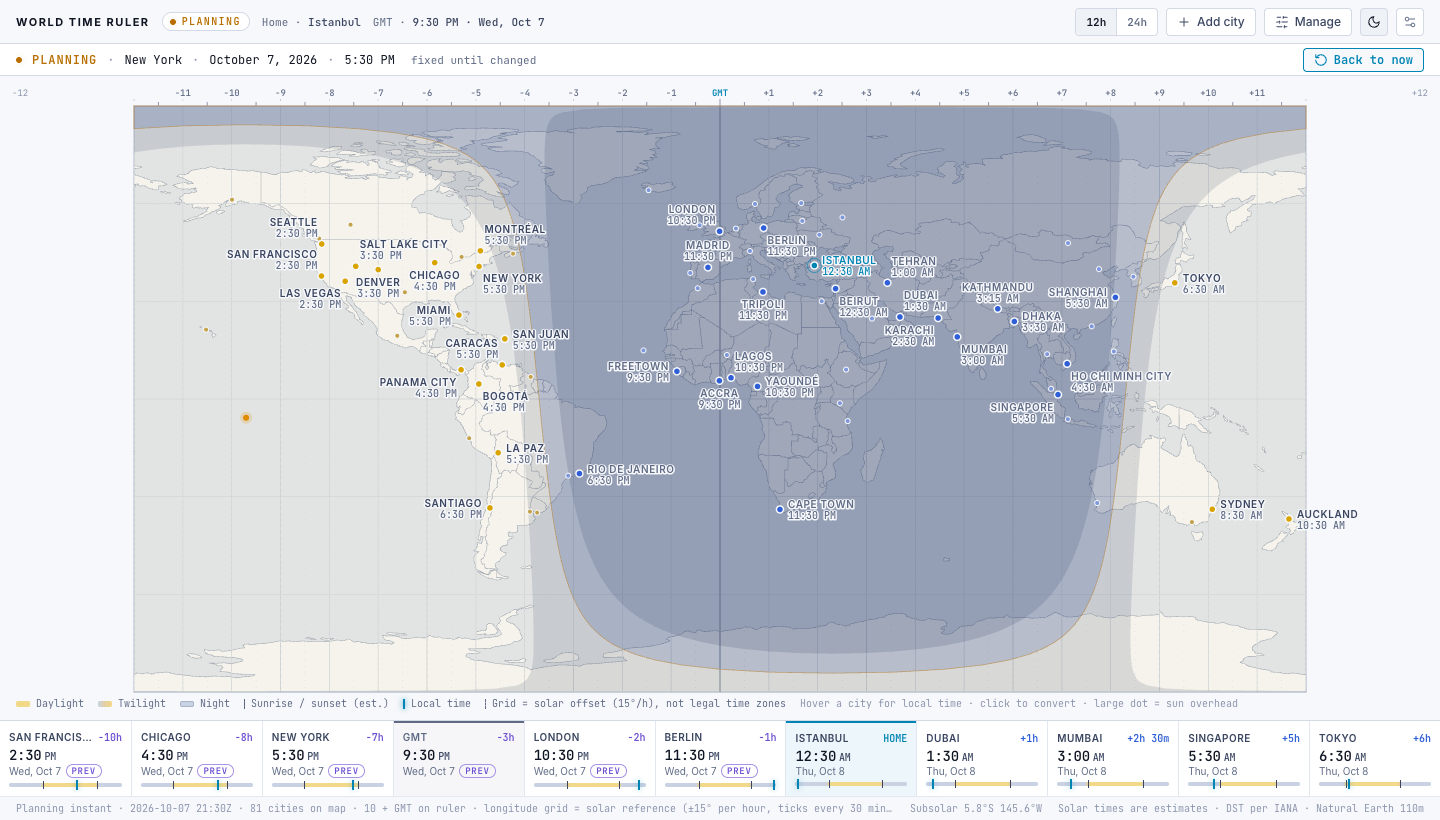
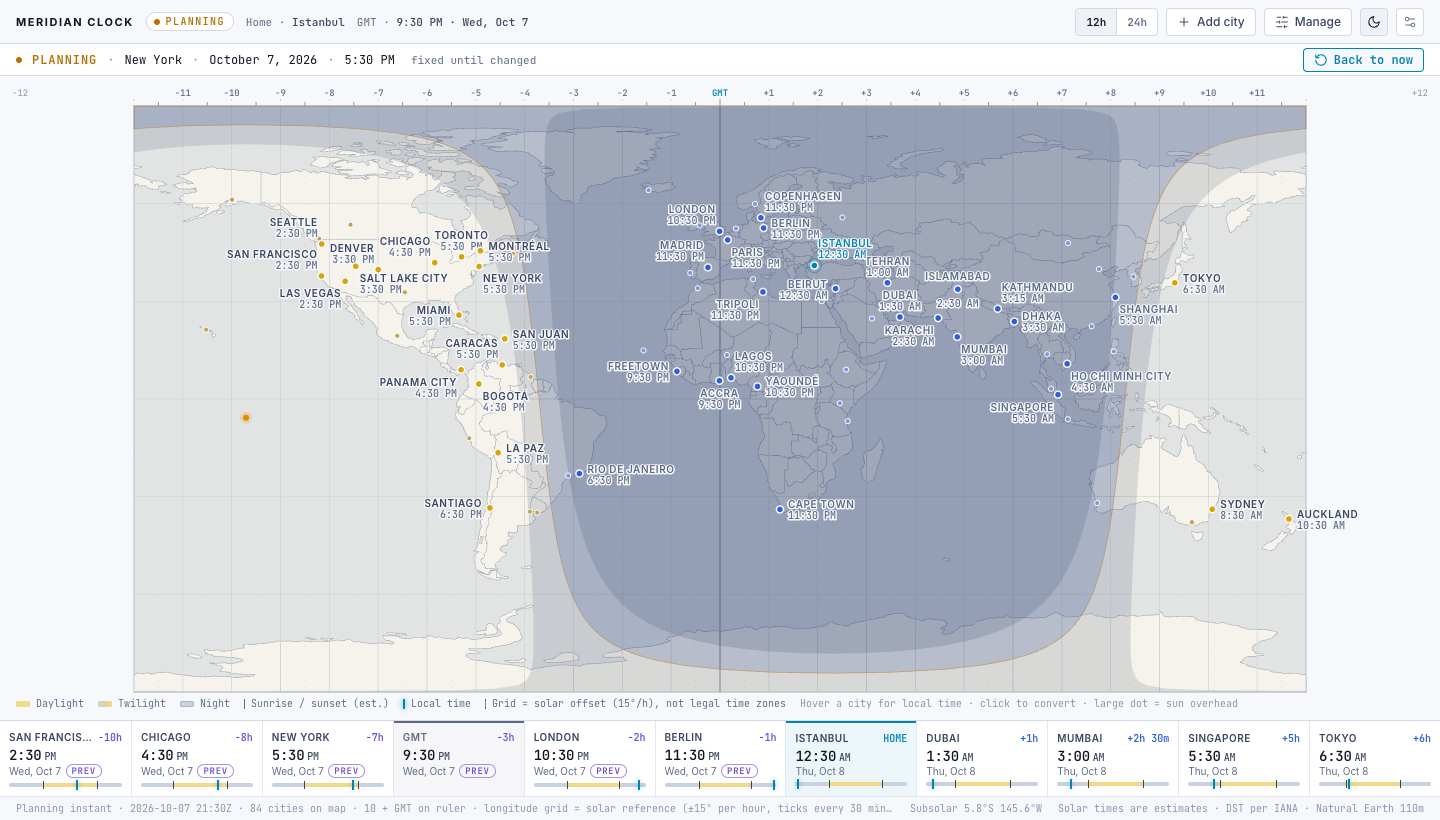
Rename to Meridian Clock; extra map labels give way when crowded
- Rename World Time Ruler to Meridian Clock everywhere users see it (storage key unchanged so saved settings survive).
- Label layout: ruler labels always shown; an extra map label that collides with other text is dropped (dot stays).
- Update tests and README for the four cities added to the map on 15 Oct; add Features and Screenshots sections.

Changed region(s): [[0.4375, 0.2134, 0.8125, 0.3963], [0.0, 0.0, 0.375, 0.0305], [0.2188, 0.2744, 0.375, 0.3659]]

diff --git a/tests/e2e/extension.spec.ts b/tests/e2e/extension.spec.ts
@@ -3,7 +3,7 @@ import { mkdtempSync, readFileSync, mkdirSync } from 'node:fs';
 import { tmpdir } from 'node:os';
 import path from 'node:path';
 
-const EXT = path.resolve(process.env.WTR_EXT ?? 'dist/world-time-ruler'); // WTR_EXT: test a folder extracted from the ZIP
+const EXT = path.resolve(process.env.WTR_EXT ?? 'dist/meridian-clock'); // WTR_EXT: test a folder extracted from the ZIP
 const SHOTS = path.resolve('docs/test-screenshots');
 mkdirSync(SHOTS, { recursive: true });
 const ID = { sf: 'gn5391959', chicago: 'gn4887398', ny: 'gn5128581', london: 'gn2643743', istanbul: 'gn745044', tokyo: 'gn1850147', kathmandu: 'gn1283240' };
@@ -95,8 +95,8 @@ test('toolbar click opens a dedicated, active extension tab (new tab per click)'
   ]);
   await page.waitForLoadState();
   expect(page.url()).toBe(`chrome-extension://${extId}/index.html`);
-  await expect(page.locator('h1.brand')).toHaveText(/world time ruler/i);
-  await expect(page).toHaveTitle('World Time Ruler');
+  await expect(page.locator('h1.brand')).toHaveText(/meridian clock/i);
+  await expect(page).toHaveTitle('Meridian Clock');
   // The new tab is the active one (compare tab ids; URLs are hidden without the "tabs" permission, which is not requested).
   const mine = await page.evaluate(async () => (await chrome.tabs.getCurrent())?.id);
   const active = await sw.evaluate(async () => (await chrome.tabs.query({ active: true })).map(t => t.id));
@@ -113,7 +113,7 @@ test('loads fully offline: no remote requests, fonts and map bundled, no console
   ctx.on('request', r => requested.push(r.url()));
   const page = await open();
   await expect(page.locator('.bar .cell')).toHaveCount(11);
-  await expect(page.locator('svg.world .city')).toHaveCount(81); // 63 handoff dots + 18 always-labelled cities outside that set
+  await expect(page.locator('svg.world .city')).toHaveCount(84); // 63 handoff dots + 21 always-labelled cities outside that set
   expect((await page.locator('svg.world path').nth(1).getAttribute('d'))!.length).toBeGreaterThan(20000); // country geometry
   await page.evaluate(() => document.fonts.ready);
   const fonts = await page.evaluate(() => [...document.fonts].filter(f => f.status === 'loaded').map(f => f.family.replace(/"/g, '')));
@@ -319,7 +319,7 @@ test('Add city: search, IANA zone shown, duplicates blocked, replace at the ten-
   await expect(cell(page, ID.kathmandu).locator('.diff')).toHaveText('+2h 45m');
   await expect(page.locator(`svg.world .city[data-city="${ID.kathmandu}"] text.name`)).toHaveText('Kathmandu'); // now labelled on the map
   await expect(page.locator(`svg.world .city[data-city="${ID.chicago}"] text.name`)).toHaveCount(0);           // Chicago back to a plain dot
-  await expect(page.locator('svg.world .city')).toHaveCount(81);
+  await expect(page.locator('svg.world .city')).toHaveCount(84);
   await page.keyboard.press('Escape');
   await expect(panel).toHaveCount(0);
 
@@ -333,9 +333,9 @@ test('Add city: search, IANA zone shown, duplicates blocked, replace at the ten-
   await page.locator('[data-result]').first().click();
   await expect(page.getByRole('dialog')).toContainText('Adelaide added');
   await expect(page.locator('.bar .cell')).toHaveCount(11);
-  await expect(page.locator('svg.world .city')).toHaveCount(82);
+  await expect(page.locator('svg.world .city')).toHaveCount(85);
   await expect(page.locator('.bar .cell .nm').last()).toHaveText(/adelaide/i); // UTC+10:30 in October: east of Tokyo
-  await expect(page.locator('.foot')).toContainText('82 cities on map · 10 + GMT on ruler');
+  await expect(page.locator('.foot')).toContainText('85 cities on map · 10 + GMT on ruler');
 
   // an always-labelled map city can also be put on the ruler; the map keeps one dot for it
   await page.getByRole('combobox').fill('madrid');
@@ -344,7 +344,7 @@ test('Add city: search, IANA zone shown, duplicates blocked, replace at the ten-
   await page.locator(`[data-replace="${ID.kathmandu}"]`).click();
   await expect(cell(page, 'gn3117735').locator('.diff')).toHaveText('−1h');
   await expect(page.locator('svg.world .city[data-city="gn3117735"]')).toHaveCount(1);
-  await expect(page.locator('svg.world .city')).toHaveCount(82);
+  await expect(page.locator('svg.world .city')).toHaveCount(85);
 });
 
 test('Manage: remove, change home (offsets and badges update), home removal needs a replacement', async ({ open }) => {
@@ -381,15 +381,15 @@ test('Manage: remove, change home (offsets and badges update), home removal need
   await expect(cell(page, ID.sf).locator('b.prev')).toBeVisible();          // SF Oct 6 vs London Oct 7
   await expect(page.locator('.bar .cell[data-city="gmt"] .diff')).toHaveText('−1h'); // London is on BST
 
-  // map label switches: every map dot that is not a saved city is listed (81 dots − 8 saved after the removals above); 29 start on, the rest off.
+  // map label switches: every map dot that is not a saved city is listed (84 dots − 8 saved after the removals above); 33 start on, the rest off.
   // A saved city and an always-labelled city lose their label but keep their dot, a plain dot gains one; the choices survive a reload
-  await expect(panel.locator('[data-labelled]')).toHaveCount(73);
-  await expect(panel.locator('[data-labelled][data-on]')).toHaveCount(29);
+  await expect(panel.locator('[data-labelled]')).toHaveCount(76);
+  await expect(panel.locator('[data-labelled][data-on]')).toHaveCount(33);
   await expect(panel.getByRole('checkbox', { name: 'Show label for Lima' })).not.toBeChecked();
   await expect(page.locator('svg.world .city[data-city="gn3936456"] text.name')).toHaveCount(0); // Lima: dot only
   await panel.getByRole('checkbox', { name: 'Show label for Lima' }).check();
   await expect(page.locator('svg.world .city[data-city="gn3936456"] text.name')).toHaveText('Lima');
-  await expect(panel.locator('[data-labelled][data-on]')).toHaveCount(30);
+  await expect(panel.locator('[data-labelled][data-on]')).toHaveCount(34);
   await panel.getByRole('checkbox', { name: 'Show label for Istanbul' }).uncheck();
   await panel.getByRole('checkbox', { name: 'Show label for Miami' }).uncheck();
   await expect(page.locator(`svg.world .city[data-city="${ID.istanbul}"] text.name`)).toHaveCount(0);
@@ -491,7 +491,7 @@ test('live mode ticks each minute and refreshes when the tab becomes visible aga
 });
 
 for (const [w, h] of [[1280, 720], [1440, 900]] as const) {
-  test(`layout ${w}px: ten cities + GMT, no horizontal scroll, readable cells, ruler ≤ 144px, 39 map labels never overlap`, async ({ open }) => {
+  test(`layout ${w}px: ten cities + GMT, no horizontal scroll, readable cells, ruler ≤ 144px, map labels never overlap`, async ({ open }) => {
     const page = await open({ width: w, height: h, clock: '2026-10-07T00:00:00Z' });
     await page.evaluate(() => document.fonts.ready);
     const m = await page.evaluate(() => {
@@ -516,7 +516,8 @@ for (const [w, h] of [[1280, 720], [1440, 900]] as const) {
     expect(m.topOverflow).toBe(false);
     expect(m.map).toBeGreaterThan(h * 0.6);
     expect(m.overlapping).toEqual([]);
-    expect(await page.locator('svg.world .city text.name').count()).toBe(39); // 10 ruler + 29 always-labelled
+    // 10 ruler + 33 always-labelled; at 1280px the crowded western USA has no room for Seattle and Las Vegas, which stay dots
+    expect(await page.locator('svg.world .city text.name').count()).toBe(w === 1280 ? 41 : 43);
     await page.screenshot({ path: path.join(SHOTS, `dark-live-${w}.png`) });
     await page.locator('[data-theme-toggle]').click();
     await expect(page.locator('body')).toHaveClass(/light/);

diff --git a/src/lib/labels.ts b/src/lib/labels.ts
@@ -1,9 +1,10 @@
 // Collision-aware label placement. Each labelled city gets one of nine slots around its dot; the layout is chosen
 // by minimising weighted overlap between labels, dots and the viewport edge (greedy west → east, then local search,
 // then a short deterministic simulated-annealing pass so crowded clusters such as the western USA or West Africa
-// can reach arrangements that single-label moves cannot).
+// can reach arrangements that single-label moves cannot). Ruler cities always keep a label; if overlaps remain, the
+// worst-overlapping extra map label is dropped (its dot stays) and the rest re-settle, until no extra label collides.
 export type Slot = 'right' | 'left' | 'above' | 'below' | 'top' | 'top-left' | 'top-right' | 'below-left' | 'below-right' | 'hide';
-export interface LabelInput { id: string; name: string; x: number; y: number; labelled: boolean; lon: number }
+export interface LabelInput { id: string; name: string; x: number; y: number; labelled: boolean; lon: number; ruler?: boolean }
 interface Box { x: number; y: number; w: number; h: number; weight: number; owner?: string }
 type Plain = Omit<Box, 'weight'>;
 type Cand = { k: Slot; pref: number; boxes: Plain[] };
@@ -22,6 +23,7 @@ export const SLOT_LAYOUT: Record<Exclude<Slot, 'hide'>, { anchor: 'start' | 'mid
 };
 
 const TOUCHING = 300; // total overlap cost (px² × weight) we stop fighting: labels that merely touch
+const CLASH = 40; // px² of text on text that counts as a visible collision (drops an extra label)
 const TIME_W = 48; // "12:00 AM" in JetBrains Mono 10px measures 48px; other times 42px
 const W_RULER_DOT = 40, W_LABEL = 20, W_MINOR_DOT = 3;
 const overlap = (a: Plain, b: Plain) =>
@@ -56,7 +58,7 @@ function rng(seed: number) {
   return () => { a = (a + 0x6d2b79f5) >>> 0; let t = a; t = Math.imul(t ^ (t >>> 15), t | 1); t ^= t + Math.imul(t ^ (t >>> 7), t | 61); return ((t ^ (t >>> 14)) >>> 0) / 4294967296; };
 }
 
-/** Only `labelled` cities (ruler + always-labelled) get a label; they always get a slot (least-overlap fallback). */
+/** Only `labelled` cities get a label. Ruler cities always get a slot (least-overlap fallback); other labels give way when crowded. */
 export function placeLabels(items: LabelInput[], width: number): Map<string, Slot> {
   const out = new Map<string, Slot>();
   const dots: Box[] = items.map(d => ({ x: d.x - 5, y: d.y - 5, w: 10, h: 10, weight: d.labelled ? W_RULER_DOT : W_MINOR_DOT, owner: d.id }));
@@ -127,5 +129,13 @@ export function placeLabels(items: LabelInput[], width: number): Map<string, Slo
     crowded.forEach((d, i) => place(d, opts.get(d.id)!.find(c => c.k === best[i])!));
     descend();
   }
-  return out;
+  // Text on text is what reads as a collision; a label grazing a neighbour's dot is tolerated.
+  const clash = (d: LabelInput) => { let s = 0; for (const b of current(d).boxes) for (const n of neighbours.get(d.id)!) for (const o of labels.get(n.id) ?? []) s += overlap(b, o); return s; };
+  for (;;) {
+    let worst: LabelInput | undefined, worstCost = CLASH;
+    for (const d of ruler) { const k = d.ruler ? 0 : clash(d); if (k > worstCost) { worst = d; worstCost = k; } }
+    if (!worst) return out;
+    out.set(worst.id, 'hide'); labels.delete(worst.id); ruler.splice(ruler.indexOf(worst), 1);
+    descend(); // the others may now spread into the freed space
+  }
 }

diff --git a/src/components/Panels.tsx b/src/components/Panels.tsx
@@ -263,7 +263,7 @@ export function SettingsPanel({ prefs, version, onFormat, onTheme, onReset, onCl
       )}
       <div className="sep" />
       <div className="about">
-        <b>World Time Ruler {version}</b> · settings are stored on this device (chrome.storage.local) and shared by all open tabs.<br />
+        <b>Meridian Clock {version}</b> · settings are stored on this device (chrome.storage.local) and shared by all open tabs.<br />
         Time zones: IANA rules via the browser, resolved with a bundled Temporal implementation.<br />
         Sunrise, sunset, twilight and the day/night boundary are estimates (SunCalc + USNO approximation).<br />
         The longitude grid is a solar reference (15° per hour), not a map of legal time-zone boundaries.<br />

diff --git a/tests/unit/prefs.test.ts b/tests/unit/prefs.test.ts
@@ -169,4 +169,12 @@ describe('label placement', () => {
     for (const k of ['a', 'b', 'd']) expect(s.get(k)).not.toBe('hide');
     expect(s.get('d')).toBe('left'); // nothing may leave the viewport on the right edge
   });
+  it('drops extra map labels that cannot fit, never a ruler label', () => {
+    const items = ['Seattle', 'Portland', 'Spokane', 'Tacoma', 'Eugene', 'Salem'].map((name, i) =>
+      ({ id: String(i), name, x: 300 + (i % 2) * 4, y: 150 + i * 3, labelled: true, lon: -122 + i / 10, ruler: i < 2 }));
+    const s = placeLabels(items, 1000);
+    expect(s.get('0')).not.toBe('hide');
+    expect(s.get('1')).not.toBe('hide');
+    expect(items.filter(d => s.get(d.id) === 'hide').length).toBeGreaterThan(0);
+  });
 });

diff --git a/src/components/WorldMap.tsx b/src/components/WorldMap.tsx
@@ -78,7 +78,7 @@ export function WorldMap({ model, hour12, T, hoverId, editorId, onHover, onOpen,
   }, [projection, model.map]);
   const rulerKey = model.map.filter(v => v.labelled).map(v => v.city.id).join(',');
   const slots = useMemo(
-    () => placeLabels(model.map.map(v => ({ id: v.city.id, name: v.city.name, x: pts.get(v.city.id)?.[0] ?? 0, y: pts.get(v.city.id)?.[1] ?? 0, labelled: v.labelled, lon: v.city.lon })), W),
+    () => placeLabels(model.map.map(v => ({ id: v.city.id, name: v.city.name, x: pts.get(v.city.id)?.[0] ?? 0, y: pts.get(v.city.id)?.[1] ?? 0, labelled: v.labelled, lon: v.city.lon, ruler: v.ruler })), W),
     // eslint-disable-next-line react-hooks/exhaustive-deps
     [pts, rulerKey, W],
   );

diff --git a/src/App.tsx b/src/App.tsx
@@ -76,7 +76,7 @@ export function App() {
     <div className="app" data-mode={plan ? 'planning' : 'live'}>
       <header className="top">
         <div className="l">
-          <h1 className="brand">World Time Ruler</h1>
+          <h1 className="brand">Meridian Clock</h1>
           {plan ? <span className="pill plan" role="status"><i />PLANNING</span> : <span className="pill live" role="status"><i />LIVE</span>}
           <span className="meta home-meta">Home · <b>{model.home.city.name}</b></span>
           <span className="meta" data-testid="gmt">GMT · <b>{clockStr(g.h, g.mi, hour12)}<span className="gd"> · {weekdayShort(g)}, {monthDay(g)}</span></b></span>

diff --git a/vite.config.ts b/vite.config.ts
@@ -1,12 +1,12 @@
 import { defineConfig } from 'vitest/config';
 import react from '@vitejs/plugin-react';
 
-// Output is a ready-to-load unpacked extension: dist/world-time-ruler/manifest.json.
+// Output is a ready-to-load unpacked extension: dist/meridian-clock/manifest.json.
 export default defineConfig({
   base: './',
   plugins: [react()],
   build: {
-    outDir: 'dist/world-time-ruler',
+    outDir: 'dist/meridian-clock',
     emptyOutDir: true,
     target: 'chrome120',
     modulePreload: { polyfill: false },

diff --git a/src/lib/storage.ts b/src/lib/storage.ts
@@ -1,5 +1,5 @@
 // Preferences live in chrome.storage.local (survives restarts and extension updates, and
-// chrome.storage.onChanged keeps every open World Time Ruler tab in sync). Outside an extension
+// chrome.storage.onChanged keeps every open Meridian Clock tab in sync). Outside an extension
 // (vite dev preview) it falls back to localStorage + the `storage` event.
 import { sanitizePrefs, type Prefs } from './prefs';
 

diff --git a/index.html b/index.html
@@ -4,7 +4,7 @@
 <meta charset="utf-8">
 <meta name="viewport" content="width=device-width, initial-scale=1">
 <meta name="color-scheme" content="dark light">
-<title>World Time Ruler</title>
+<title>Meridian Clock</title>
 <link rel="icon" type="image/png" sizes="32x32" href="icons/icon-32.png">
 <link rel="icon" type="image/png" sizes="16x16" href="icons/icon-16.png">
 </head>

diff --git a/src/background.ts b/src/background.ts
@@ -1,4 +1,4 @@
-// Toolbar click → open World Time Ruler in its own active tab. No popup, no New Tab override.
+// Toolbar click → open Meridian Clock in its own active tab. No popup, no New Tab override.
 chrome.action.onClicked.addListener(() => {
   void chrome.tabs.create({ url: chrome.runtime.getURL('index.html'), active: true });
 });

diff --git a/playwright.config.ts b/playwright.config.ts
@@ -1,6 +1,6 @@
 import { defineConfig } from '@playwright/test';
 
-// End-to-end tests load the *built* unpacked extension (dist/world-time-ruler) into Chromium.
+// End-to-end tests load the *built* unpacked extension (dist/meridian-clock) into Chromium.
 export default defineConfig({
   testDir: 'tests/e2e',
   timeout: 60_000,

diff --git a/README.md b/README.md
@@ -1,28 +1,56 @@
-# World Time Ruler
+# Meridian Clock
 
-[![CI](https://github.com/babushka99/world-time-ruler/actions/workflows/ci.yml/badge.svg)](https://github.com/babushka99/world-time-ruler/actions/workflows/ci.yml)
+[![CI](https://github.com/babushka99/meridian-clock/actions/workflows/ci.yml/badge.svg)](https://github.com/babushka99/meridian-clock/actions/workflows/ci.yml)
 [![License: MIT](https://img.shields.io/badge/License-MIT-blue.svg)](LICENSE)
 
 A free, open-source Chrome extension that shows world time on a live day/night map, with a ruler
 of your saved cities and time-zone-correct planning conversions. Works fully offline: no server,
 account, API key, tracking or network request.
 
-![World Time Ruler — dark theme](docs/test-screenshots/dark-live-1440.png)
+![Meridian Clock — dark theme](docs/test-screenshots/dark-live-1440.png)
+
+## Features
+
+- **Live day/night map.** Shows where the sun is up right now, with a soft twilight band and a
+  marker for the point where the sun is directly overhead.
+- **Your city ruler.** Up to ten saved cities across the bottom, sorted west to east, each with
+  local time, date, day or night, and the difference from your home city.
+- **Planning mode.** Click any city, type a date and time *there*, and every other city converts
+  instantly. Great for "what time is the 3 PM New York call in Dubai?"
+- **Safe with daylight saving.** If a time happens twice (clocks go back) you choose which one; if
+  it doesn't exist (clocks go forward) you're told so instead of getting a wrong answer.
+- **Hover for details.** Local time and date, time zone, UTC offset, sunrise and sunset.
+- **~6,000 cities to search** by name, country or time zone, plus 84 cities on the map, with
+  labels you can switch on or off.
+- **12-hour or 24-hour time, dark or light theme.**
+- **Private and offline.** No account, no tracking, no internet connection used — ever. The only
+  permission is storage for your own settings. See [PRIVACY.md](PRIVACY.md).
+
+## Screenshots
+
+| | |
+|---|---|
+| ![Light theme](docs/test-screenshots/light-live-1440.png) | ![Planning mode](docs/test-screenshots/dark-planning-mode.png) |
+| **Light theme** | **Planning mode** — everything converted to a chosen time |
+| ![City tooltip](docs/test-screenshots/dark-tooltip-new-york.png) | ![Convert from a city](docs/test-screenshots/dark-convert-editor.png) |
+| **Hover a city** for time zone, sunrise and sunset | **Convert from** any city's local time |
+| ![Add city](docs/test-screenshots/light-panel-add-city.png) | ![Manage cities](docs/test-screenshots/light-panel-manage.png) |
+| **Add city** — search ~6,000 cities | **Manage** — home city, order and map labels |
 
 ## Install
 
 ### Option A — download the ready-made extension (no tools needed)
 
-1. Go to the [**Releases** page](https://github.com/babushka99/world-time-ruler/releases/latest)
-   and download `world-time-ruler-<version>.zip`.
+1. Go to the [**Releases** page](https://github.com/babushka99/meridian-clock/releases/latest)
+   and download `meridian-clock-<version>.zip`.
 2. Extract it to a permanent folder (Chrome reads the files from there every time it starts — do
    not delete or move the folder afterwards).
 3. Open `chrome://extensions` in Chrome.
 4. Turn on **Developer mode** (top-right switch).
 5. Click **Load unpacked**.
-6. Select the `world-time-ruler` folder — the one that contains `manifest.json`.
-7. Click the puzzle-piece icon in the toolbar and **pin** World Time Ruler.
-8. Click its icon. World Time Ruler opens in its own tab.
+6. Select the `meridian-clock` folder — the one that contains `manifest.json`.
+7. Click the puzzle-piece icon in the toolbar and **pin** Meridian Clock.
+8. Click its icon. Meridian Clock opens in its own tab.
 
 Works in Chrome 120+ and other Chromium browsers (Edge, Brave, Arc, Opera, Vivaldi).
 
@@ -34,10 +62,10 @@ See [Rebuild from source](#rebuild-from-source) below.
 
 | Control | What it does |
 |---|---|
-| Toolbar icon | Opens World Time Ruler in a new, active tab (one new tab per click). |
+| Toolbar icon | Opens Meridian Clock in a new, active tab (one new tab per click). |
 | **12h / 24h** | Switches every time on the page. Saved. |
 | **Add city** | Search ~6,000 cities by name, country or IANA zone. The zone and current offset are shown so same-named cities can be told apart. Adds to the ruler and the map. At ten cities it asks which saved city to replace (or sends you to Manage to remove one). Duplicates are refused. |
-| **Manage** | Saved cities west → east. Radio button = home. ✕ removes a city; removing the home city first asks for a replacement home. At least one city is always kept. Each saved city has a **Label** switch, and the **Map labels** list below shows every other dot on the map (71 by default) with the same switch: on names the dot with its time, off leaves it as a plain dot. |
+| **Manage** | Saved cities west → east. Radio button = home. ✕ removes a city; removing the home city first asks for a replacement home. At least one city is always kept. Each saved city has a **Label** switch, and the **Map labels** list below shows every other dot on the map (74 by default) with the same switch: on names the dot with its time, off leaves it as a plain dot. |
 | Sun / moon button | Dark ↔ light theme. Saved. |
 | Settings (sliders icon) | Time format, theme, and **Reset…** (asks for confirmation) back to the ten default cities, Istanbul as home, 12h, dark. |
 | Hover / focus a city | Tooltip: local time and date, difference from home, IANA zone, UTC offset, estimated sunrise/sunset, GMT. |
@@ -59,11 +87,11 @@ Daylight-saving edge cases are never guessed:
 
 Reading the screen:
 
-* Twenty-nine extra cities are labelled on the map with their name and local time without taking
+* Thirty-three extra cities are labelled on the map with their name and local time without taking
   a ruler slot: Santiago, San Juan, Montréal, Rio de Janeiro, Madrid, Beirut, Tehran, Ho Chi Minh
   City, Shanghai, Tripoli, Freetown, Yaoundé, Bogotá, Panama City, La Paz, Caracas, Miami, Denver,
-  Salt Lake City, Las Vegas, Seattle, Lagos, Accra, Karachi, Kathmandu, Dhaka, Sydney, Auckland and
-  Cape Town (the list is `MAP_LABELLED` in `src/lib/cities.ts`). Hovering or clicking them works like
+  Salt Lake City, Las Vegas, Seattle, Lagos, Accra, Karachi, Kathmandu, Dhaka, Sydney, Auckland,
+  Cape Town, Toronto, Islamabad, Paris and Copenhagen (the list is `MAP_LABELLED` in `src/lib/cities.ts`). Hovering or clicking them works like
   any other city; adding one to the ruler simply makes it a ruler city. Every other map dot can be
   given a label from **Manage → Map labels**, and any label can be switched off there.
 
@@ -77,7 +105,7 @@ Reading the screen:
   scrolling cities; the footer shows "compact ruler".
 
 Settings, saved cities and home are stored in `chrome.storage.local` on this device. They survive
-browser restarts and extension updates and are shared live between all open World Time Ruler tabs.
+browser restarts and extension updates and are shared live between all open Meridian Clock tabs.
 
 ## Permissions and privacy
 
@@ -93,7 +121,7 @@ Requires Node.js 22.12+ (built with Node 26, npm 10).
 ```sh
 npm ci            # install exact dependency versions from package-lock.json
 npm test          # unit tests (time zones, DST, solar, storage rules, search)
-npm run build     # typecheck + bundle → dist/world-time-ruler/ and dist/world-time-ruler-<version>.zip
+npm run build     # typecheck + bundle → dist/meridian-clock/ and dist/meridian-clock-<version>.zip
 npx playwright install chromium   # once, for the browser tests
 npm run test:e2e  # loads the built extension into Chromium and drives it
 ```
@@ -107,7 +135,7 @@ entry to `CHANGELOG.md`, commit, then push a matching tag (`git tag v1.2.0 && gi
 GitHub Actions builds the extension and attaches the ZIP to a new release on the Releases page.
 
 To update an installed copy: replace the contents of the installed folder with the new
-`world-time-ruler` folder, then press the reload arrow on the extension's card in
+`meridian-clock` folder, then press the reload arrow on the extension's card in
 `chrome://extensions`. Saved settings are kept.
 
 ### Layout
@@ -129,8 +157,8 @@ design/                                 the original design handoff (reference o
 ## Troubleshooting
 
 * **"Manifest file is missing or unreadable"** — you selected the wrong folder. Pick the folder that
-  directly contains `manifest.json` (`world-time-ruler`), not its parent and not the ZIP.
-* **The icon is not in the toolbar** — click the puzzle-piece icon and pin World Time Ruler.
+  directly contains `manifest.json` (`meridian-clock`), not its parent and not the ZIP.
+* **The icon is not in the toolbar** — click the puzzle-piece icon and pin Meridian Clock.
 * **Extension disappeared or shows an error after a restart** — the folder was moved, renamed or
   deleted. Put it back (or Load unpacked again from its new place). Chrome ties an unpacked
   extension's saved data to its folder path, so loading from a *different* path starts with
@@ -156,7 +184,7 @@ Privacy: see [PRIVACY.md](PRIVACY.md) (short version: nothing is collected).
 
 ## License
 
-World Time Ruler is released under the [MIT License](LICENSE) — free to use, copy, change and
+Meridian Clock is released under the [MIT License](LICENSE) — free to use, copy, change and
 share, including commercially, as long as the copyright notice is kept.
 
 ## Credits and third-party licences
